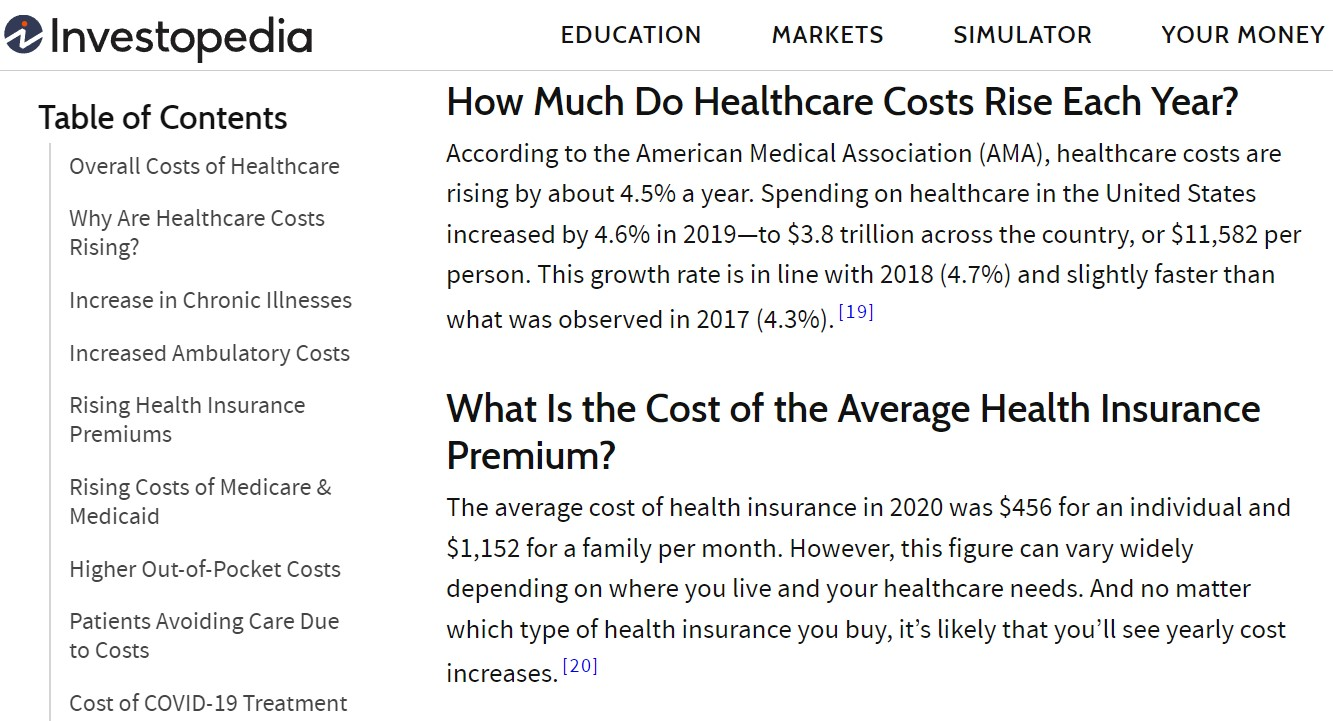
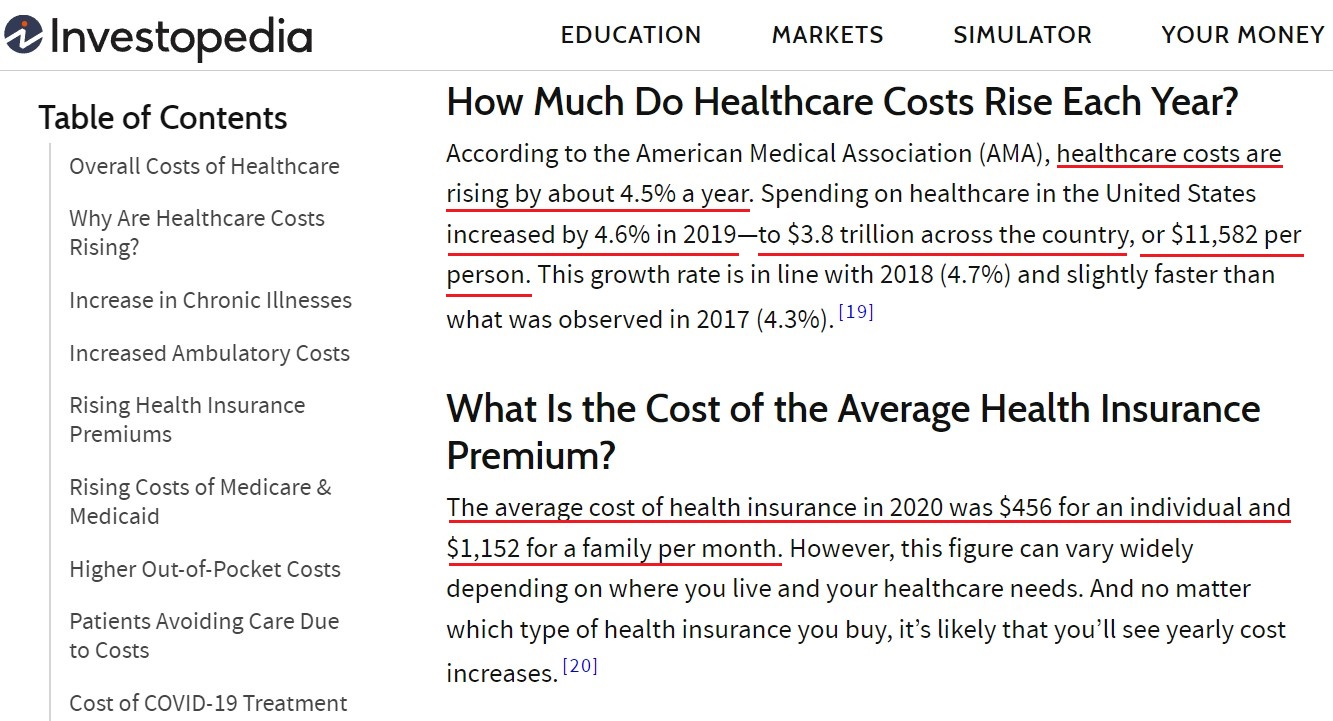
Modified files

diff --git a/README.md b/README.md
@@ -1,11 +1,11 @@
 # Health Care Insurance Premium Predicion
 
-!(insurance_premium_poster)[/images/insurance_premium_poster.jpg]
+![insurance_premium_poster](/images/insurance_premium_poster.jpg)
 
 ## Context
 Now a days, healthcare firms use personal health data of insurance holders to predict health insurance premium of individuals. The amount of the premium for a health insurance policy depends from person to person, as many factors affect the amount of the premium for a health insurance policy. Let’s say age, a young person is very less likely to have major health problems compared to an older person. Thus, treating an older person will be expensive compared to a young one. That is why an older person is required to pay a high premium compared to a young person. Just like age, many other factors affect the premium for a health insurance policy.
 
-!(insurance_premium_context)[/images/insurance_premium_context.jpg]
+![insurance_premium_context](/images/insurance_premium_context.jpg)
 
 ## Content
 Here, we have created a system that shows the different techniques that are being used in order to estimate the how much amount of insurance premium is required on the basis of individual health situation. The dataset comprises of 1338 records with 7 attributes. The data is in structured format and stored in a CSV file. 
@@ -16,13 +16,13 @@ KAGGLE - https://www.kaggle.com/datasets/noordeen/insurance-premium-prediction
 ## Abstract
 The main goal of this project to predict the medical bill expenses that can incur a person based on their health conditions. This can assist a person in concentrating on the health side of their life rather than the ineffective part. Five regression models naming Linear Regression, Decision Tree Regression, Random Forest Regression, Gradient Boosting Regression and KNN have been used to compare and contrast the performance of these algorithms. Training dataset was used for training the model and that training model helped to come up with some predictions.Then the predicted amount was compared with actual data to test and verify the model accuracy. Later accuracies of all these models were compared and the best performing model was picked for model deployment.
 
-### There is rise in demand for Health Care Insurance in the recent years
+__## There is rise in demand for Health Care Insurance Premium in the recent years !!__
 
 ![rise in demand for insurance premium](/images/rising_demand.jpg)
 
-- According to a study by the Peterson Center on Healthcare and the Kaiser Family Foundation (KFF), U.S. healthcare spending rose nearly a trillion dollars from 2009 to 2019, when adjusted for inflation.
-- A recent study reported that U.S. healthcare spending during 2019 was nearly $3.8 trillion, or $11,582 per person. By 2028, these costs are expected to climb to $6.2 trillion—roughly $18,000 per person.
-- According to the American Medical Association (AMA), healthcare costs are rising by about 4.5% a year.
+- According to a study by the Peterson Center on Healthcare and the Kaiser Family Foundation (KFF), __U.S. healthcare spending rose nearly a trillion dollars from 2009 to 2019,__ when adjusted for inflation.
+- A recent study reported that __U.S. healthcare spending during 2019 was nearly $3.8 trillion, or $11,582 per person__. By 2028, these costs are expected to climb to $6.2 trillion—roughly $18,000 per person.
+- According to the American Medical Association (AMA), __healthcare costs are rising by about 4.5% a year.__
 
 ![Investopedia page](/images/rising_cost_insurance.jpg)
 
@@ -59,7 +59,7 @@ For model building, data was splitted into training and testing set and various 
 ##### 5. Model Selection : 
 Tested all the models and using the evaluation metrics i.e. RMSE & R-squared, the best performing model was picked for model deployment.
 
-##### 6. Webpage &Deployment : 
+##### 6. Web Application & Deployment : 
 Created a web application using streamlit API that takes all the necessary inputs from the user & shows the output. Then deployed project on the Heroku Platform.
 
 ## Conclusion
@@ -82,4 +82,4 @@ streamlit run app.py
 
 __This is how our Streamlit Application looks:__
 
-![streamlitapp page](/images/app1.jpg)
+![streamlitapp page](/images/app_1.jpg)
